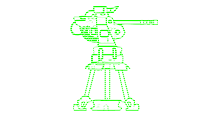
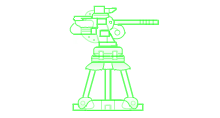
client: исправлены инвентарные иконки турели и добавлен параметр xsmall

Changed region(s): [[0.3, 0.0254, 0.7364, 0.9407]]

diff --git a/sublayers_common/static/js/widgets/w_fire_controller.js b/sublayers_common/static/js/widgets/w_fire_controller.js
@@ -205,7 +205,7 @@ var WFireController = (function (_super) {
             var btn = panel_info.items[i];
             this.jq_quick_btns[btn.index].draggable("disable");
             if (btn.item) {
-                this.jq_quick_btns[btn.index].css('background-image', 'url("' + btn.item.example.inv_icon_small + '")');
+                this.jq_quick_btns[btn.index].css('background-image', 'url("' + btn.item.example.inv_icon_xsmall + '")');
                 this.jq_quick_btns[btn.index].draggable("enable");
             }
             else

diff --git a/sublayers_server/model/registry/classes/item.py b/sublayers_server/model/registry/classes/item.py
@@ -22,7 +22,8 @@ class Item(Root):
     inv_icon_big = StringField(caption=u'URL глифа (большой разиер) для блоков инвентарей', tags='client')
     inv_icon_mid = StringField(caption=u'URL глифа (средний размер) для блоков инвентарей', tags='client')
     inv_icon_small = StringField(caption=u'URL глифа (малый размер) для блоков инвентарей', tags='client')
-    inv_icon_supersmall = StringField(caption=u'URL глифа (самый малый размер) для блоков инвентарей', tags='client')
+    inv_icon_supersmall = StringField(caption=u'URL глифа (супер малый размер) для блоков инвентарей', tags='client')
+    inv_icon_xsmall = StringField(caption=u'URL глифа (самый малый размер) для блоков инвентарей', tags='client')
     # todo: move title attr to the root
     activate_type = StringField(caption=u'Способ активации: none, self ...', tags='client')
     activate_time = FloatField(caption=u'Время активации итема')
